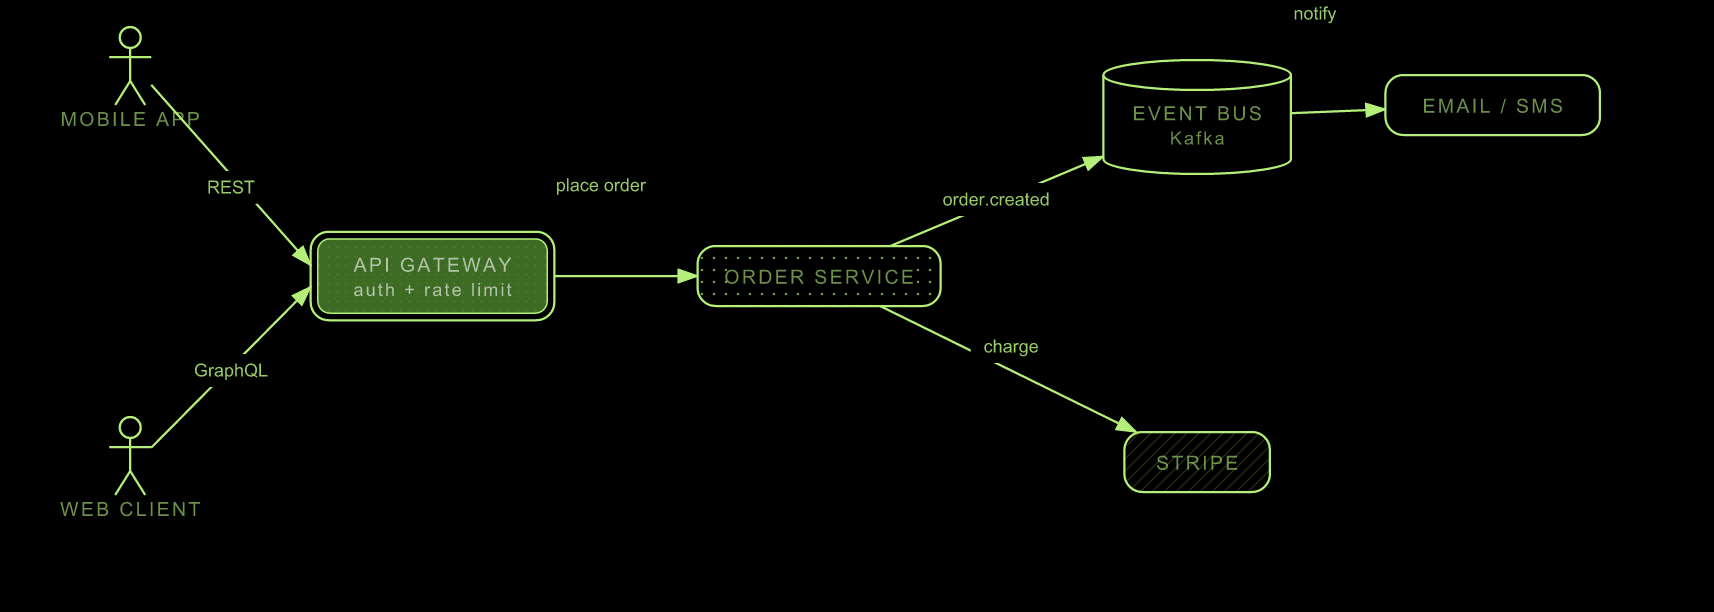
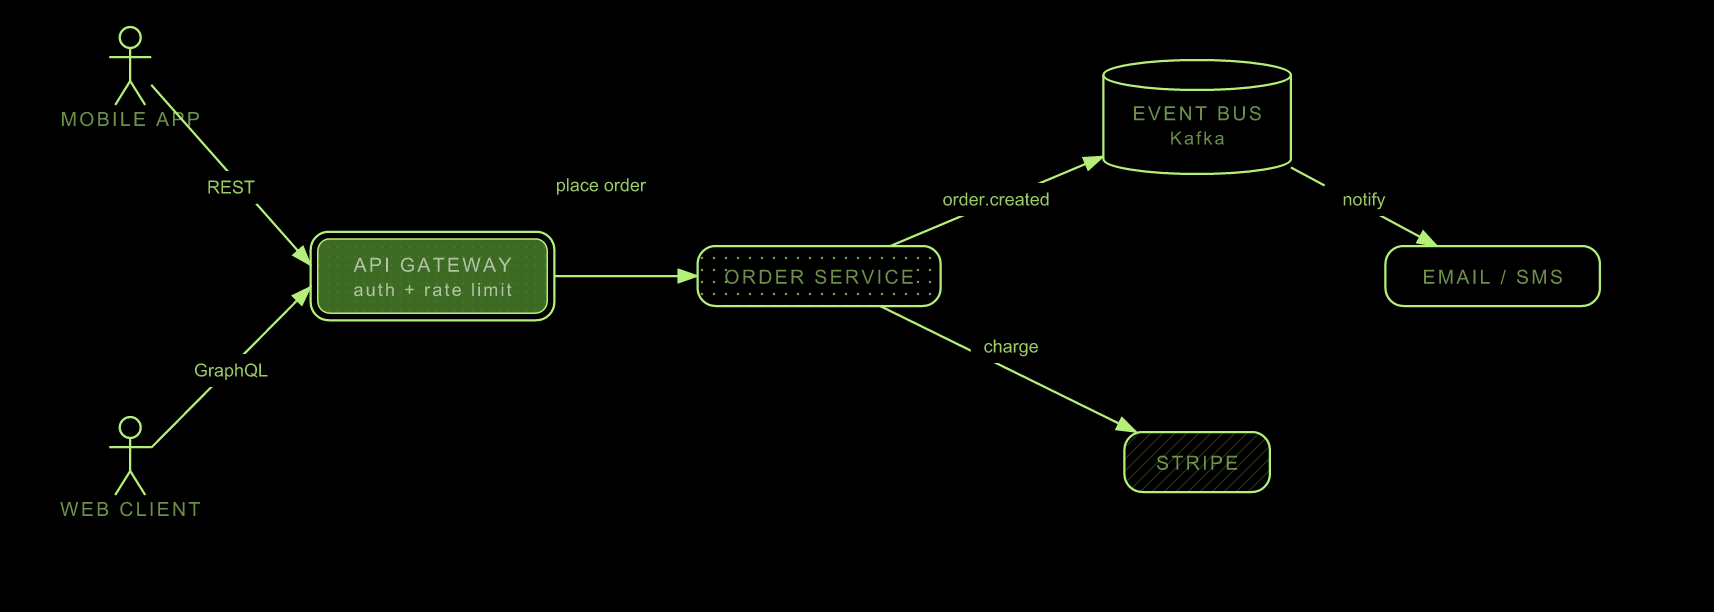
Fix LR layout: single-node centering, cross-layer collision, canvas trim
Three structural Sugiyama layout fixes:
1. Center single-node layers on global midpoint (prevents LR stair-stepping)
2. Cross-layer collision resolution (prevents adjacent layers overlapping)
3. Recompute canvas from actual content bounds (eliminates excess space)

Affects all LR diagrams. Re-rendered README examples.

diff --git a/src/layout/flow-layout.ts b/src/layout/flow-layout.ts
@@ -2340,6 +2340,113 @@ function resolveLayerCollisions(
     }
   }
 
+  // Center single-node layers: if a layer has exactly 1 node, align it to the
+  // vertical (TB) or horizontal (LR) center of the widest/tallest layer.
+  // This prevents linear chains from stair-stepping diagonally.
+  if (!isTB) {
+    // LR: center each layer's nodes on the same y midpoint
+    let maxLayerHeight = 0;
+    for (const layer of layers) {
+      let minY = Infinity, maxYBottom = 0;
+      for (const id of layer) {
+        const pos = positioned.nodePositions.get(id);
+        const sz = nodeSizes.get(id);
+        if (pos && sz) {
+          minY = Math.min(minY, pos.y);
+          maxYBottom = Math.max(maxYBottom, pos.y + sz.h);
+        }
+      }
+      if (minY < Infinity) maxLayerHeight = Math.max(maxLayerHeight, maxYBottom - minY);
+    }
+    // Find global vertical center from the tallest layer
+    let globalMinY = Infinity, globalMaxY = 0;
+    for (const [id, pos] of positioned.nodePositions) {
+      const sz = nodeSizes.get(id);
+      if (sz) {
+        globalMinY = Math.min(globalMinY, pos.y);
+        globalMaxY = Math.max(globalMaxY, pos.y + sz.h);
+      }
+    }
+    const globalCenterY = (globalMinY + globalMaxY) / 2;
+    // Center each single-node layer
+    for (const layer of layers) {
+      if (layer.length === 1) {
+        const id = layer[0];
+        const pos = positioned.nodePositions.get(id);
+        const sz = nodeSizes.get(id);
+        if (pos && sz) {
+          positioned.nodePositions.set(id, { x: pos.x, y: globalCenterY - sz.h / 2 });
+        }
+      }
+    }
+  } else {
+    // TB: center each single-node layer horizontally
+    let globalMinX = Infinity, globalMaxX = 0;
+    for (const [id, pos] of positioned.nodePositions) {
+      const sz = nodeSizes.get(id);
+      if (sz) {
+        globalMinX = Math.min(globalMinX, pos.x);
+        globalMaxX = Math.max(globalMaxX, pos.x + sz.w);
+      }
+    }
+    const globalCenterX = (globalMinX + globalMaxX) / 2;
+    for (const layer of layers) {
+      if (layer.length === 1) {
+        const id = layer[0];
+        const pos = positioned.nodePositions.get(id);
+        const sz = nodeSizes.get(id);
+        if (pos && sz) {
+          positioned.nodePositions.set(id, { x: globalCenterX - sz.w / 2, y: pos.y });
+        }
+      }
+    }
+  }
+
+  // Cross-layer collision resolution: ensure adjacent layers don't overlap
+  // For TB: layers stack vertically, check y-overlap between layers
+  // For LR: layers stack horizontally, check x-overlap between layers
+  for (let li = 1; li < layers.length; li++) {
+    const prevLayer = layers[li - 1];
+    const currLayer = layers[li];
+
+    // Find max extent of previous layer along the stacking axis
+    let prevMaxExtent = 0;
+    for (const id of prevLayer) {
+      const pos = positioned.nodePositions.get(id);
+      const sz = nodeSizes.get(id);
+      if (pos && sz) {
+        prevMaxExtent = Math.max(prevMaxExtent, isTB ? pos.y + sz.h : pos.x + sz.w);
+      }
+    }
+
+    // Find min position of current layer along the stacking axis
+    let currMinPos = Infinity;
+    for (const id of currLayer) {
+      const pos = positioned.nodePositions.get(id);
+      if (pos) {
+        currMinPos = Math.min(currMinPos, isTB ? pos.y : pos.x);
+      }
+    }
+
+    // If they overlap, push entire current layer (and all subsequent) forward
+    const gap = currMinPos - prevMaxExtent;
+    if (gap < nodeGap) {
+      const shift = nodeGap - gap;
+      for (let lj = li; lj < layers.length; lj++) {
+        for (const id of layers[lj]) {
+          const pos = positioned.nodePositions.get(id);
+          if (pos) {
+            if (isTB) {
+              positioned.nodePositions.set(id, { x: pos.x, y: pos.y + shift });
+            } else {
+              positioned.nodePositions.set(id, { x: pos.x + shift, y: pos.y });
+            }
+          }
+        }
+      }
+    }
+  }
+
   // Recompute canvas dimensions to encompass all nodes
   let maxX = 0, maxY = 0;
   for (const [id, pos] of positioned.nodePositions) {
@@ -2349,6 +2456,7 @@ function resolveLayerCollisions(
       maxY = Math.max(maxY, pos.y + sz.h);
     }
   }
-  positioned.width = Math.max(positioned.width, maxX + MARGIN_X * 2);
-  positioned.height = Math.max(positioned.height, maxY + MARGIN_TOP * 2);
+  // Use actual content bounds (centering may have moved nodes, so don't just max)
+  positioned.width = maxX + MARGIN_X * 2;
+  positioned.height = maxY + MARGIN_TOP * 2;
 }
